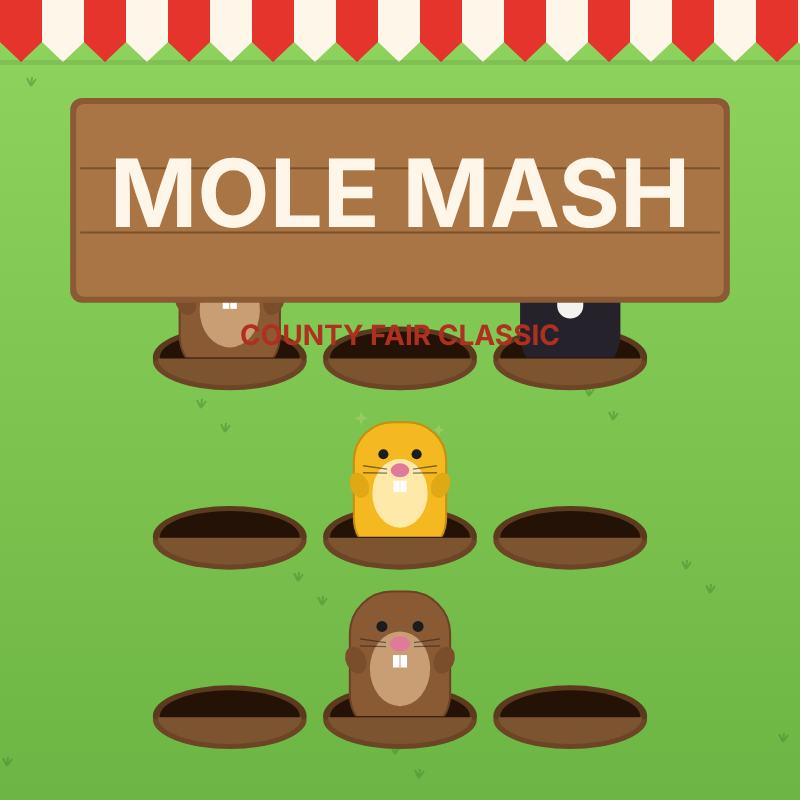
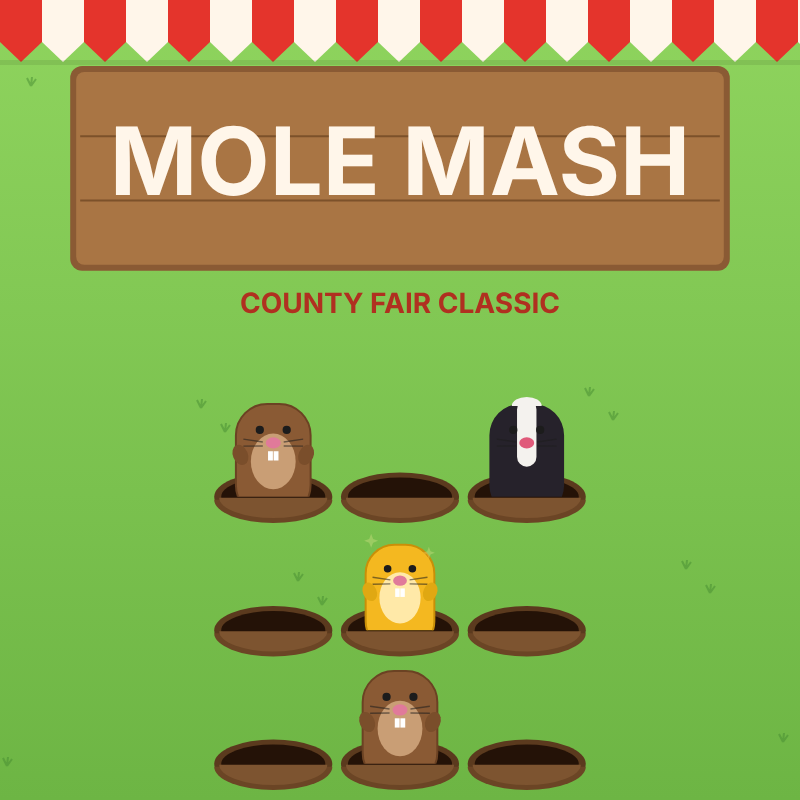
Playables: Mole Mash 커버 레이아웃·온보딩 라벨 수정, build.sh, Playgama 게임 생성(id 기록), 이어받기 갱신
Claude-Session: https://claude.ai/code/session_01GVpU8eNpbKHKocZatS3sD7

diff --git a/playables/molemash/index.html b/playables/molemash/index.html
@@ -260,7 +260,12 @@
     var top = tentH + SA.top;
     var innerX = SA.left, innerW = W - SA.left - SA.right;
     var bottomPad = 10 + SA.bottom;
-    if (H >= W * 1.12) {
+    if (COVER) {
+      var k = Math.max(1.4, Math.min(W, H) / 420);
+      hud.mode = 'top';
+      hud.x = innerX; hud.y = top + 8; hud.w = innerW; hud.h = (88 + 48) * UI * k + 16;
+      grid.x = innerX; grid.y = hud.y + hud.h; grid.w = innerW; grid.h = H - grid.y - bottomPad;
+    } else if (H >= W * 1.12) {
       // portrait: HUD band on top, grid below
       hud.mode = 'top';
       hud.x = innerX; hud.y = top + 6 * UI; hud.w = innerW; hud.h = clamp(H * 0.17, 108, 136) * UI;
@@ -927,7 +932,8 @@
       ctx.beginPath(); ctx.ellipse(h.x, h.y - mh * 0.45, cellW * 0.55 * pulse, cellW * 0.55 * pulse, 0, 0, Math.PI * 2); ctx.stroke();
       ctx.fillStyle = '#fff6ea'; ctx.font = fontPx(16, 'bold'); ctx.textAlign = 'center';
       ctx.strokeStyle = 'rgba(61,40,18,0.9)'; ctx.lineWidth = 4;
-      ctx.strokeText('TAP!', h.x, h.y - mh - 30 * UI); ctx.fillText('TAP!', h.x, h.y - mh - 30 * UI);
+      var ly = Math.max(h.y - mh - 30 * UI, tentH + SA.top + 22 * UI);
+      ctx.strokeText('TAP!', h.x, ly); ctx.fillText('TAP!', h.x, ly);
       ctx.restore();
     }
   }
@@ -1043,7 +1049,7 @@
   }
   function drawTitle() {
     if (!COVER) { ctx.fillStyle = 'rgba(255,255,255,0.55)'; ctx.fillRect(0, 0, W, H); }
-    var signY = Math.max(tentH + SA.top + 14, H * (COVER ? 0.13 : 0.1));
+    var signY = COVER ? hud.y + 8 : Math.max(tentH + SA.top + 14, H * 0.1);
     var after = drawSign(signY);
     if (COVER) return;
     var lines = [

diff --git a/board/playables.md b/board/playables.md
@@ -1,6 +1,14 @@
 # YouTube Playables — 게시판 (기획 파트너가 염, 2026-10-30)
 
 ## 🔁 이어받기
+- 마지막 저장: 2026-11-01 02:00 KST (개발 세션 ③-b) · 작업 브랜치: `claude/playables-molemash`
+- 방금 끝낸 것: **Mole Mash Playgama 판 빌드 완료** `playables/molemash/`(index.html + playgama-bridge.js 2.4.0 로컬 + playgama-bridge-config.json + audio/ CC0 음원 ogg·mp3 + CREDITS.md). 플레이 로봇 `robot.js` 53/53 통과(콘솔 에러 0·외부 요청 0·game_ready 1회·게임오버·저장 리로드·음소거·일시정지·광고 상태·보상형 이어하기·14개 크기 레이아웃). 커버 3종 `covers/`. zip 은 `./build.sh` → `dist/molemash.zip`(2.9MB, git 제외). **Playgama 게임 생성됨: id `cmvxme9mt1hvbj80hj6q0lokb`, 제목 "Mole Mash", 상태 DRAFT.**
+- 진행 중이던 것: 업로드 단계. 폼(update_application_form) → zip 업로드(start/confirm_archive_upload) → 커버 3종 → QA 툴 링크 → publish_sandbox → get_sandbox_share.
+- **다음 할 일 (순서)**: ① 위 업로드 단계를 끝내고 샌드박스 링크를 이 게시판·사용자 보고에 ② 체크리스트 번호별 결과표를 아래 "11-01 업로드 전 점검"에 적기 ③ `PLAYBOOK.md` 6장·`PRODUCT.md` 결정 로그·main 반영 ④ 사용자가 콘솔에서 Submit for review(모더레이션)·트래픽 캠페인을 할지 결정 ⑤ 다음 게임 Chicken Cross 에 같은 틀 적용(어댑터·오디오 컨트롤러·레이아웃 코드는 molemash/index.html 에서 복사)
+- 사용자 대기: 샌드박스 링크 받으면 폰에서 한 판(소리·음소거·이어하기 광고 느낌) → "Submit for review" 는 사용자가 콘솔에서 누름
+- 이어받기 문장: `soulfulfillable/test-mvp 의 board/playables.md "🔁 이어받기" 를 읽고 "다음 할 일"부터 이어서 해줘. CLAUDE.md·PLAYBOOK.md 규칙대로. Playgama MCP 도구가 있는지 먼저 확인.`
+
+### 이전 이어받기 (10-31)
 - 마지막 저장: 2026-10-31 (개발 세션) · 작업 브랜치: `claude/playables-catalog` (main 반영됨)
 - 결정(사용자 "추천대로 가자", `PRODUCT.md` 결정 로그 10-30): **A = 구글 관심 신청서 + 파트너(Playgama 등) 경유를 동시에.** 재료는 `docs/` 의 기존 HTML 게임. 퍼블리셔 채널 = 기존 Peblit(10-31).
 - 방금 끝낸 것: ① **카탈로그 `docs/games.html`** (9개 카드: 실제 플레이 스크린샷·이름·장르·영문 한 줄·Play 버튼·파일 크기, 라이트/다크, 시스템 글꼴·강조색 1개) ② **영문 소개 `playables/pitch.md`** (스튜디오 한 줄·게임별 한 줄·Playables 적합 이유·신청서 답안) ③ 스크린샷 자동 캡처 `playables/capture.js`(1170×2532, 콘솔 에러 0·외부 요청 0 전부 확인) + 카드용 `playables/thumbs.js` ④ 아이스크림 탑 UI 를 영어로(Ice Cream Tower) — 9개 중 유일하게 한국어였음
